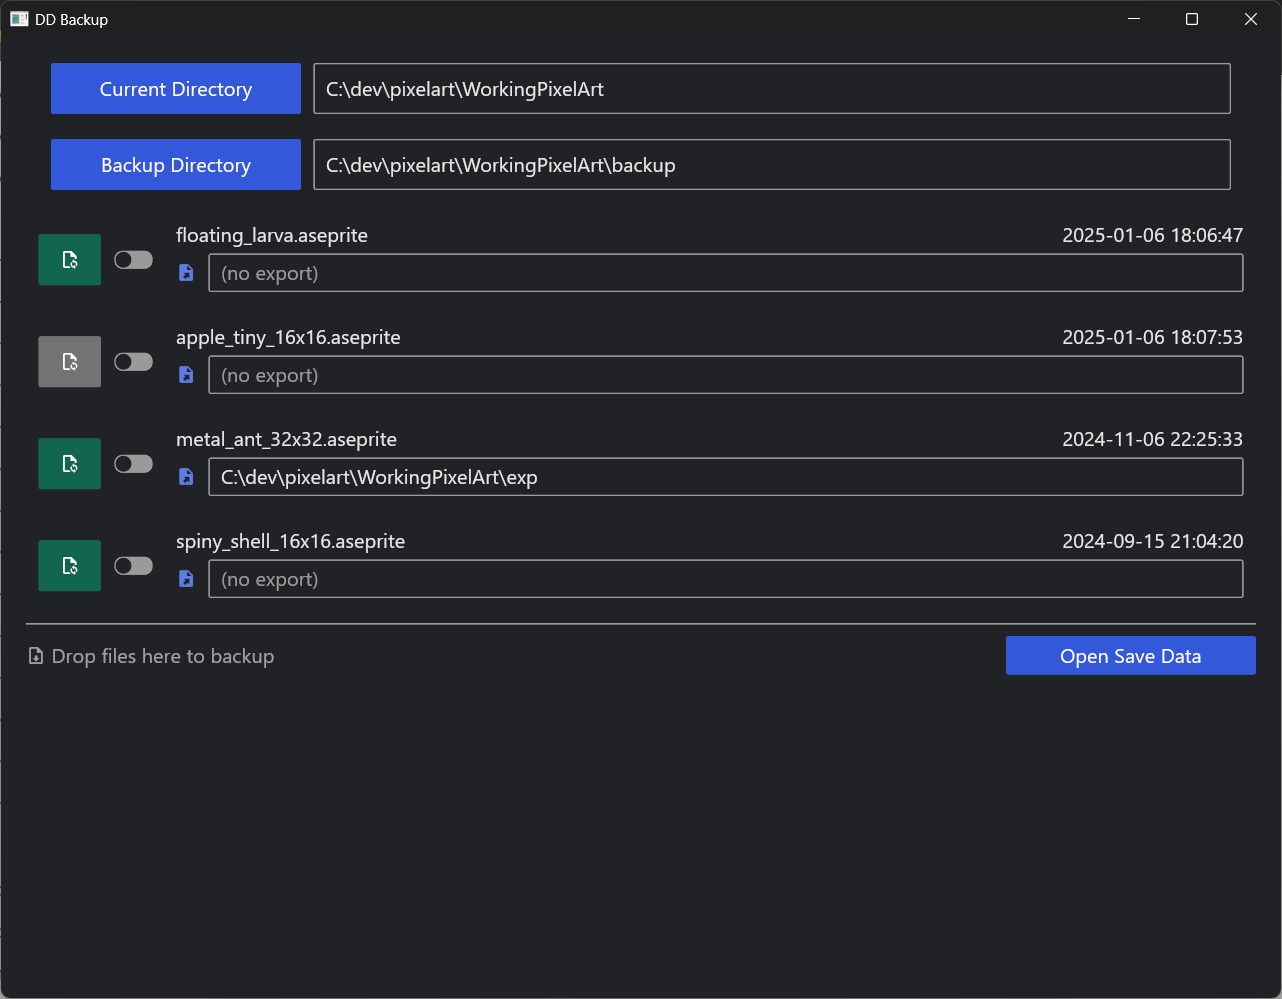
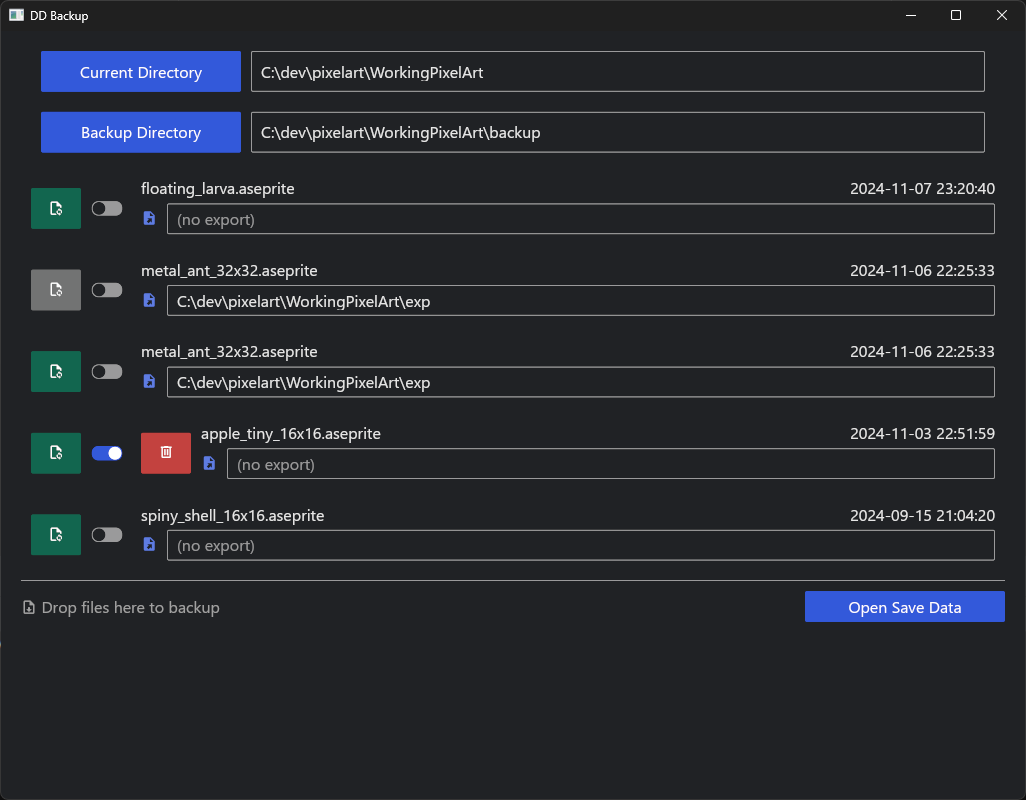
起動時にソート

diff --git a/src/user_data.rs b/src/user_data.rs
@@ -13,7 +13,7 @@ pub struct FileInfo {
 
 #[derive(Debug, Clone)]
 pub struct DirectoryInfo {
-    pub name: String,
+    pub path: String,
     pub backup_directory: String,
     pub files: Vec<FileInfo>,
 }
@@ -137,7 +137,7 @@ impl FileInfo {
 impl DirectoryInfo {
     pub fn new(name: String, backup_directory: String) -> Self {
         DirectoryInfo {
-            name,
+            path: name,
             backup_directory,
             files: Vec::new(),
         }
@@ -156,6 +156,11 @@ impl DirectoryInfo {
             file.refresh_synced(&self.backup_directory);
         }
     }
+
+    /// files について last_edited 降順でソートする
+    pub fn sort_files_by_last_edited(&mut self) {
+        self.files.sort_by(|a, b| b.last_edited.cmp(&a.last_edited));
+    }
 }
 
 impl UserData {
@@ -170,15 +175,15 @@ impl UserData {
     }
 
     pub fn find_directory(&self, name: &str) -> Option<&DirectoryInfo> {
-        self.directories.iter().find(|d| d.name == name)
+        self.directories.iter().find(|d| d.path == name)
     }
 
     pub fn touch_directory(&mut self, name: &str) -> Option<&mut DirectoryInfo> {
-        self.directories.iter_mut().find(|d| d.name == name)
+        self.directories.iter_mut().find(|d| d.path == name)
     }
 
     pub fn touch_directory_or_insert(&mut self, name: &str) -> &mut DirectoryInfo {
-        if let Some(index) = self.directories.iter().position(|d| d.name == name) {
+        if let Some(index) = self.directories.iter().position(|d| d.path == name) {
             &mut self.directories[index]
         } else {
             let directory = DirectoryInfo::new(name.to_string(), "".to_string());

diff --git a/src/save_data.rs b/src/save_data.rs
@@ -29,7 +29,7 @@ impl Into<FileInfo> for SaveFileData {
 
 #[derive(Serialize, Deserialize, Debug)]
 struct SaveDirectoryData {
-    name: String,
+    path: String,
     backup_directory: String,
     files: Vec<SaveFileData>,
 }
@@ -50,7 +50,7 @@ pub fn store_save_data(app: &App) {
 
     for dir in app.user_data.directories.iter() {
         let mut save_directory = SaveDirectoryData {
-            name: dir.name.clone(),
+            path: dir.path.clone(),
             backup_directory: dir.backup_directory.clone(),
             files: Vec::new(),
         };
@@ -77,14 +77,16 @@ pub fn load_save_data() -> App {
     let mut app = App::default();
     app.change_current_directory(save_data.current_directory);
     for directory in save_data.directories {
-        let dir_info = app.user_data.touch_directory_or_insert(&directory.name);
+        let dir_info = app.user_data.touch_directory_or_insert(&directory.path);
         dir_info.backup_directory = directory.backup_directory;
         for file in directory.files {
             let mut file_info: FileInfo = file.into();
-            file_info.refresh_last_edited(&dir_info.backup_directory);
+            file_info.refresh_last_edited(&dir_info.path);
             file_info.refresh_synced(&dir_info.backup_directory);
             dir_info.add_file(file_info);
         }
+
+        dir_info.sort_files_by_last_edited();
     }
 
     app

diff --git a/src/app_update.rs b/src/app_update.rs
@@ -82,12 +82,13 @@ impl App {
             Message::FileMessage(index, file_message) => {
                 let current_directory = self.user_data.touch_directory(&self.current_directory);
                 if let Some(dir) = current_directory {
+                    let dir_path = dir.path.clone();
                     let backup_directory = dir.backup_directory.clone();
                     if let Some(file) = dir.touch_file(index) {
                         match file_message {
                             FileMessage::Sync => {
-                                file.refresh_last_edited(&backup_directory);
-                                file.sync(&self.current_directory, &backup_directory);
+                                file.refresh_last_edited(&dir_path);
+                                file.sync(&dir_path, &backup_directory);
                                 file.refresh_synced(&backup_directory);
                             }
                             FileMessage::ExportPathInput(path) => {
